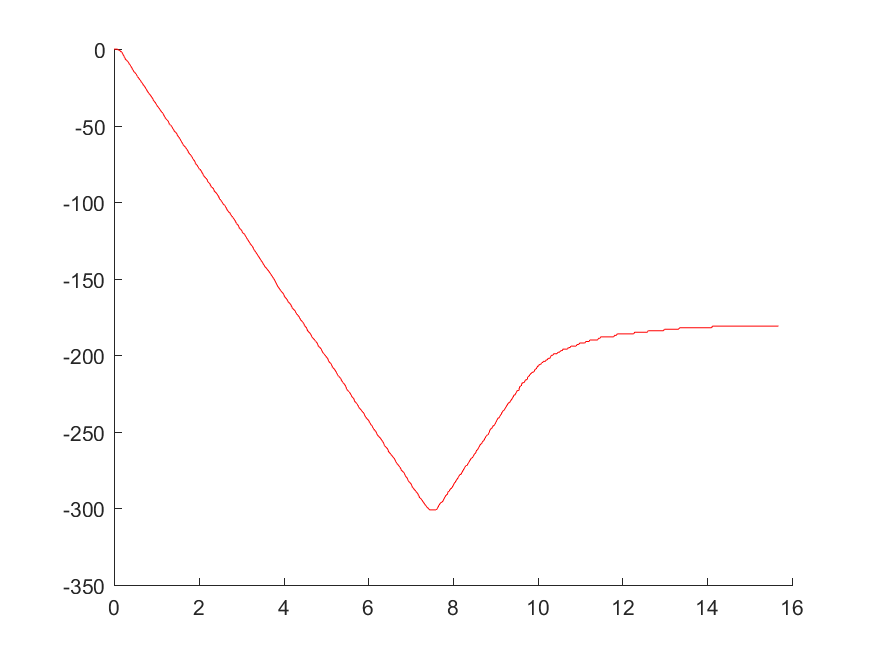
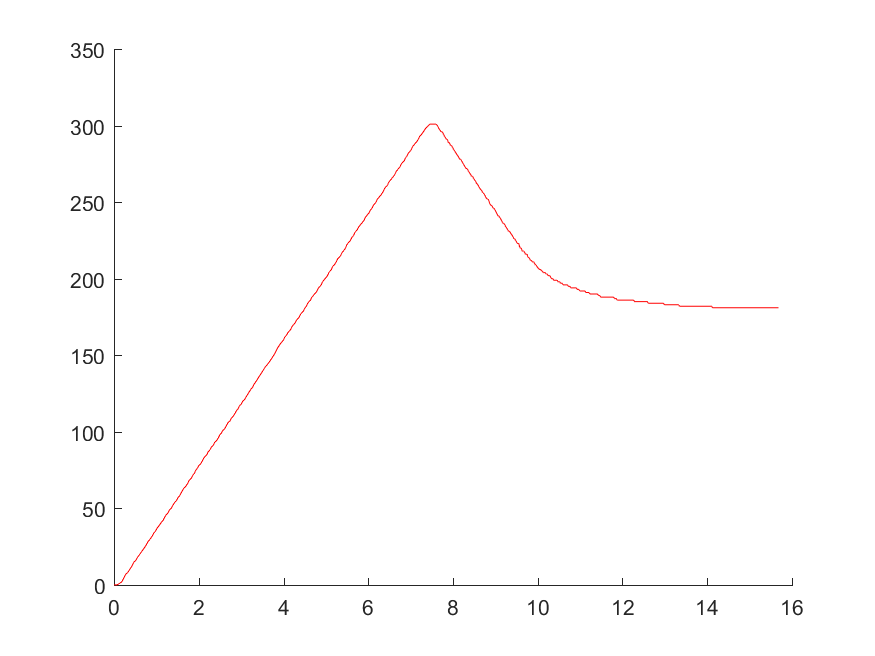
new pngs added

diff --git a/analiza/analyse.m b/analiza/analyse.m
@@ -1,5 +1,6 @@
-path = 'rotate180';
-fileName = '502010';
+% path = 'drive50cm';
+ path = 'rotate180';
+fileName = '505000';
 saveTo = fullfile(path,strcat('\', fileName,'.png'));
 T1 = read(path, fileName);
 %koti so negativni, popravi naslednjic pri izpisu
@@ -7,11 +8,11 @@ T1(:,1) = T1(:,1)*-1;
 
 T2 = read(path, '005000');
 %koti so negativni, popravi naslednjic pri izpisu
-T2(:,1) = T2(:,1)*-1;
+T2(:,1) = T2(:,1);
 
 figure(1); 
 hold on;
-plot(T1(:,2), T1(:,1), 'r')
+plot(T1(:,2), T1(:,1)*-1, 'r')
 saveas(gcf,saveTo)
 % hold on;
 % plot(T2(:,2), T2(:,1), 'b')
